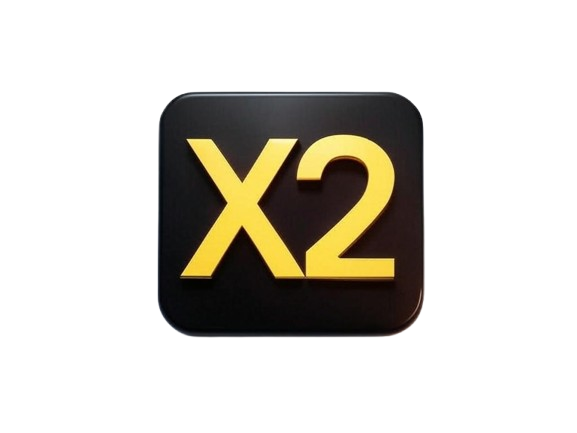
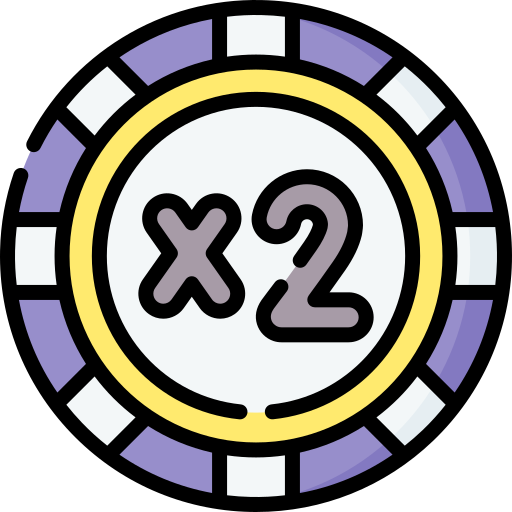
스킬아이콘 수정정

diff --git a/ChoiseSkill.html b/ChoiseSkill.html
@@ -24,16 +24,16 @@
                 <img src="Resources/zeroTile.png" alt="0타일">
             </button>
             <button class="skill-button" onclick="choiseSkill('timeAmplification', this)">
-                시간 증폭
+                <img src="Resources/timeAmplification.png" alt="0타일">
             </button>
             <button class="skill-button" onclick="choiseSkill('shield', this)">
                 <img src="Resources/shield.png" alt="0타일">
             </button>
             <button class="skill-button" onclick="choiseSkill('fullShield', this)">
-                <img src="Resources/shield.png" alt="0타일">
+                <img src="Resources/fullShield.png" alt="0타일">
             </button>
             <button class="skill-button" onclick="choiseSkill('bomb', this)">
-                <img src="Resources/bomb.jpg" alt="0타일">
+                <img src="Resources/bomb.png" alt="0타일">
             </button>
             <button class="skill-button" onclick="choiseSkill('fix', this)">
                 <img src="Resources/fix.png" alt="0타일">
@@ -52,7 +52,7 @@
         <div class="text-container">
             <p>선택된 스킬 [<span id="skill-name">0타일</span>]</p>
             <img src="">
-            <p id="skill-description">칸 채우기용 0타일 입니다. 0타일 끼리는 0 + 0 = 0 으로 합쳐질수 있습니다. (쿨타임: 12턴)</p>
+            <p id="skill-description">칸 채우기용 0타일을 배치합니다. 0타일 끼리는 0 + 0 = 0 으로 합쳐질수 있습니다. (쿨타임: 12턴)</p>
         </div>
         <div class="button-container">
             <button class="start-button" onclick="startGame()">게임 시작</button>
@@ -62,7 +62,7 @@
     <script>
         const urlParams = new URLSearchParams(window.location.search);
         const setSize = localStorage.getItem('gameSize'); // localStorage에서 게임 사이즈 가져오기
-        const setSkill = '0타일';
+        const setSkill = 'zeroTile';
         let selectedSkillButton = null; // 현재 선택된 버튼을 저장할 변수
         // 게임 사이즈를 화면에 표시
         document.getElementById("map-size").textContent = `${setSize}x${setSize} 게임 모드`;
@@ -88,7 +88,7 @@
             switch (skill) {
                 case 'zeroTile':
                     skillName = "0타일";
-                    massage = "칸 채우기용 0타일 입니다. 0타일 끼리는 0 + 0 = 0 으로 합쳐질수 있습니다. (쿨타임: 12턴)";
+                    massage = "칸 채우기용 0타일을 배치합니다. 0타일 끼리는 0 + 0 = 0 으로 합쳐질수 있습니다. (쿨타임: 12턴)";
                     break;
                 case 'timeAmplification':
                     skillName = "시간 증폭";
@@ -115,7 +115,7 @@
                     massage = "컴퓨터가 가장 안좋은 수를 두도록 합니다. (쿨타임 15턴)";
                     break;
                 case 'double':
-                    skillName = "타일 값 2배";
+                    skillName = "더블";
                     massage = "지정한 타일의 숫자를 2배 증가시킵니다. (쿨타임: 8턴)";
                     break;
                 case 'sequence':

diff --git a/css/index.css b/css/index.css
@@ -138,8 +138,8 @@ body {
     position: relative;
 }
 .skill-image {
-    width: 140%;
-    height: 140%;
+    width: 100%;
+    height: 100%;
     object-fit: contain;
     border-radius: 5px;
 }

diff --git a/css/ChoiseSkill.css b/css/ChoiseSkill.css
@@ -56,8 +56,8 @@ main {
 }
 
 .skill-button img {
-    width: 180%;
-    height: 180%;
+    width: 100%;
+    height: 100%;
     object-fit: contain;
     transition: transform 0.3s ease;
 }
